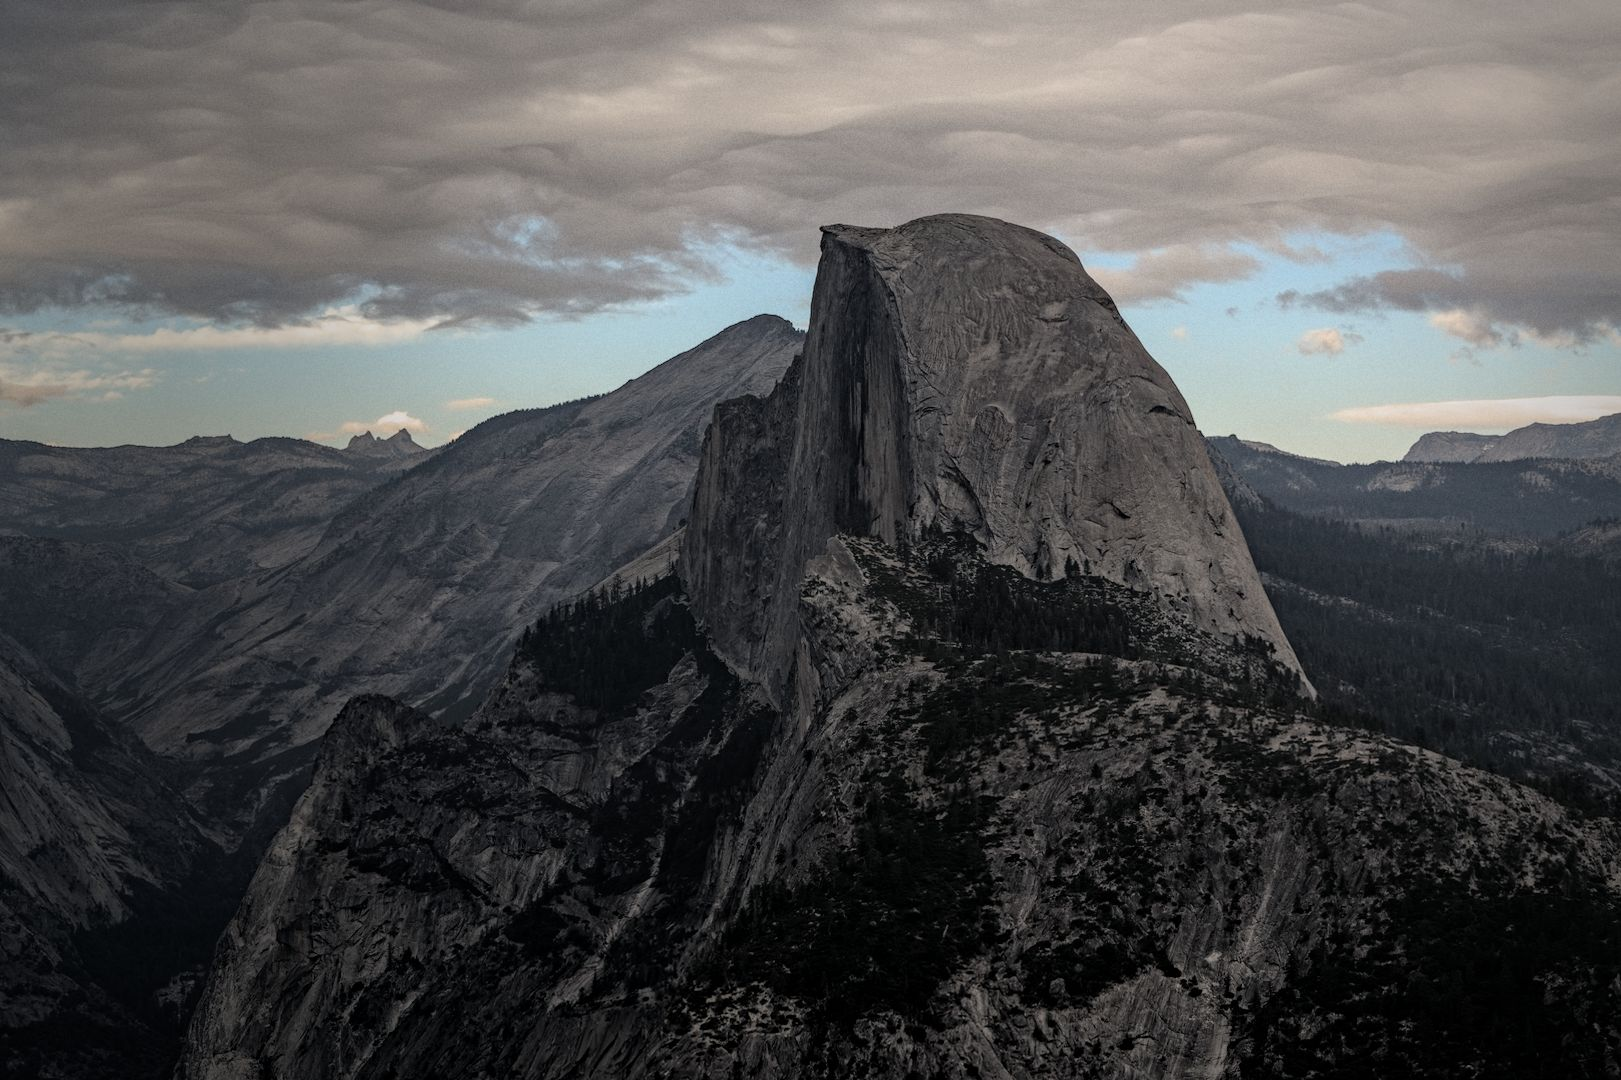
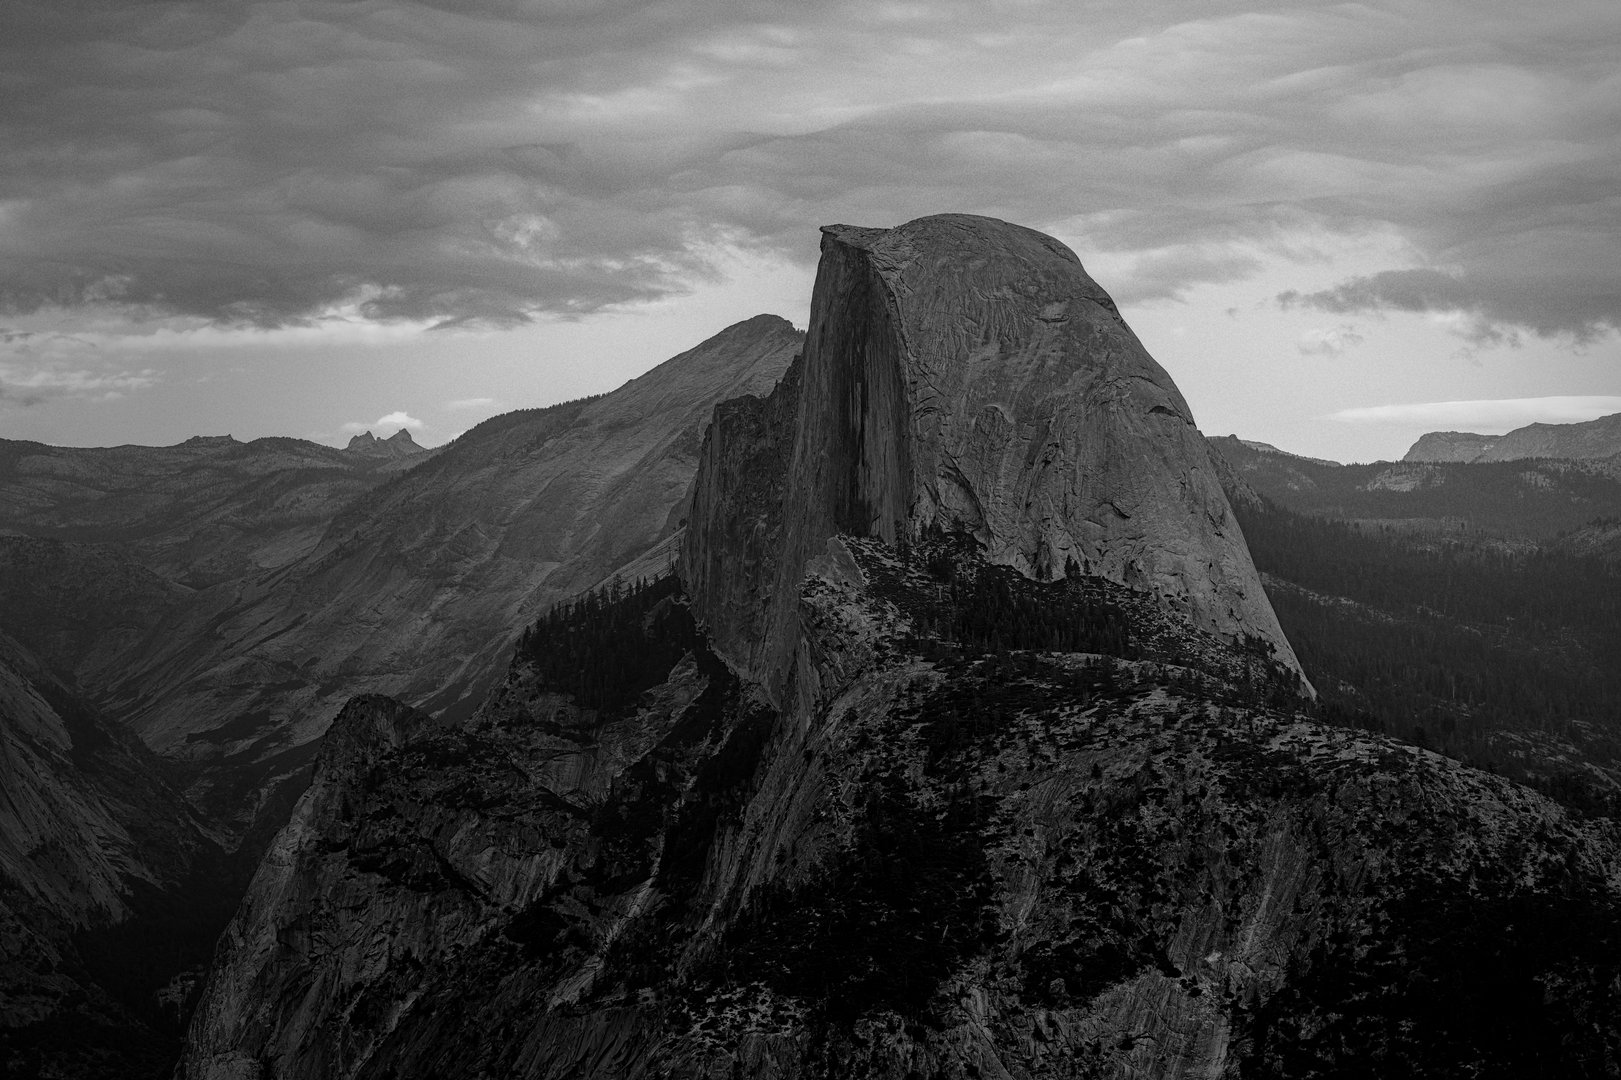
Update background image

diff --git a/pages/index.tsx b/pages/index.tsx
@@ -8,7 +8,7 @@ import { Pages } from '../components/header';
 import styles from '../styles/home.module.scss';
 
 export default function Home() {
-	const IMAGE_PATH: string = getImagePath('background-yosemite.jpg');
+	const IMAGE_PATH: string = getImagePath('yosemite.jpg');
 	const imageLoaded: boolean = isImageLoaded(IMAGE_PATH);
 
 	const [loading, setLoading] = useState<boolean>(!imageLoaded);
